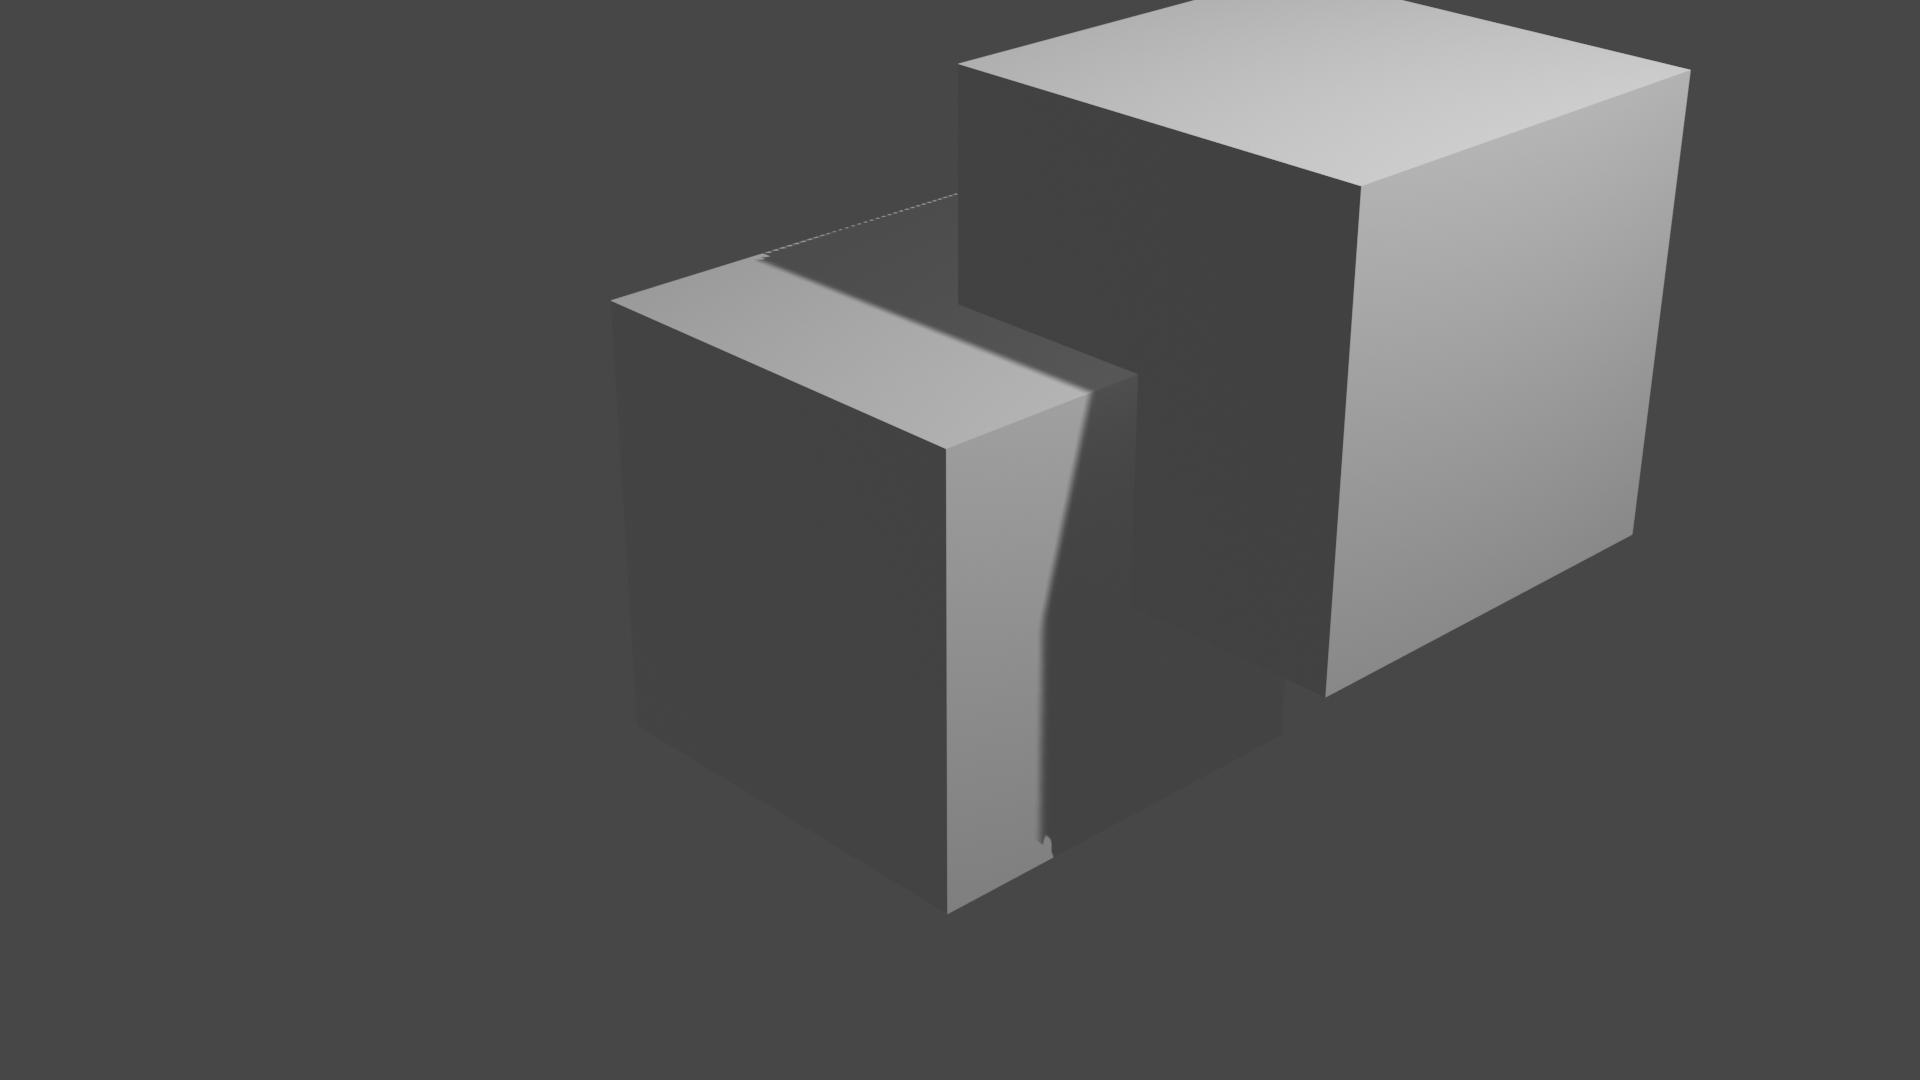
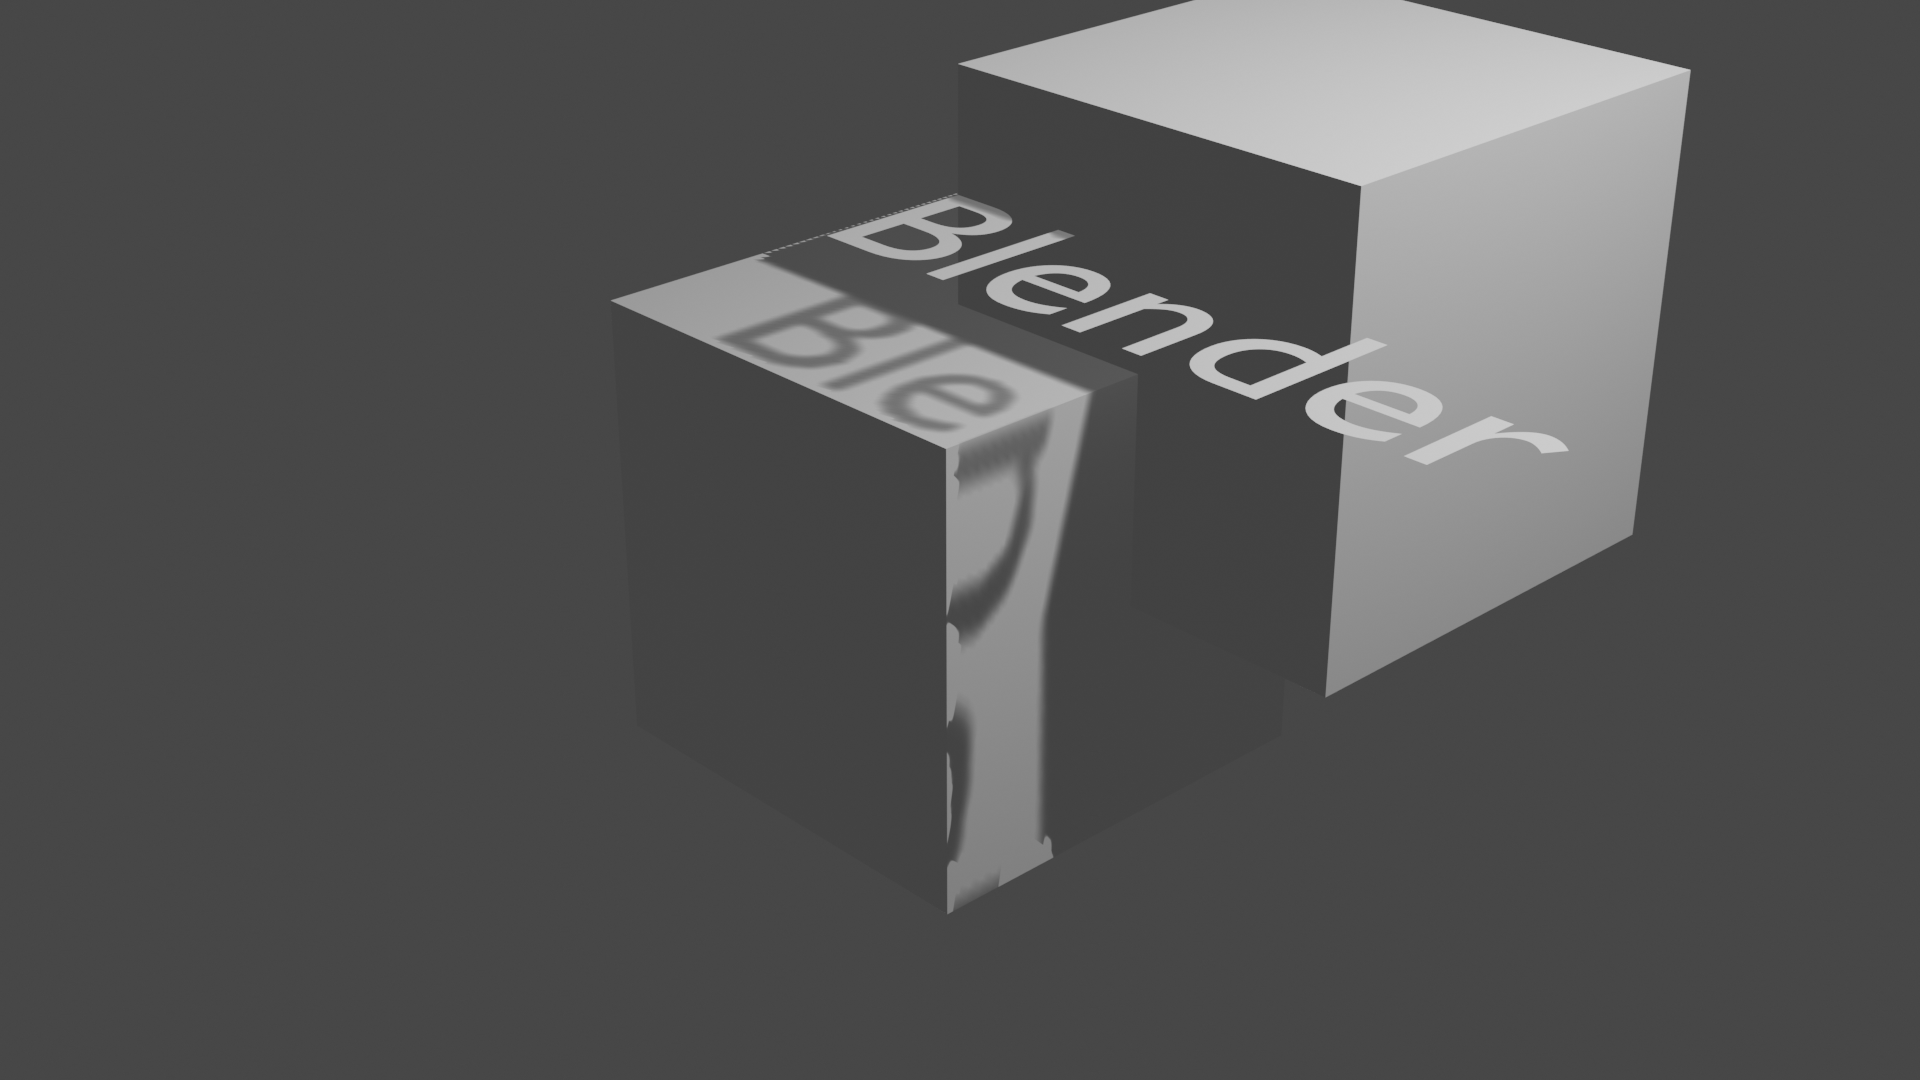
Improve instructions and the demo

diff --git a/script.py b/script.py
@@ -4,6 +4,10 @@ import bpy
 # Add another cude aside from the default cube
 bpy.ops.mesh.primitive_cube_add(location=(1, 1, 1))
 
+# Add a text to the scene
+bpy.ops.object.text_add(location=(0, -.75, 1.5))
+bpy.context.object.data.body = "Blender"
+
 # Direct the render to the repository directory
 bpy.data.scenes['Scene'].render.filepath = os.getcwd() + '/render.png'
 

diff --git a/README.md b/README.md
@@ -4,6 +4,11 @@
 
 1. Add Blender to `%PATH%`
 2. Open the repository in VS Code
+3. Open `script.py` and `render.png` in split view side by side
 3. Open the VS Code terminal
 4. Run `npx nodemon --exec blender --background --python script.py`
-5. Remove `--background` to debug in Blender
+5. Observe the `render.png` preview refresh after each save
+6. Debug by either:
+  - Removing `--background`
+  - Splitting terminal and running `blender --python script.py`
+  - Pressing F12 in Blender to preview render
